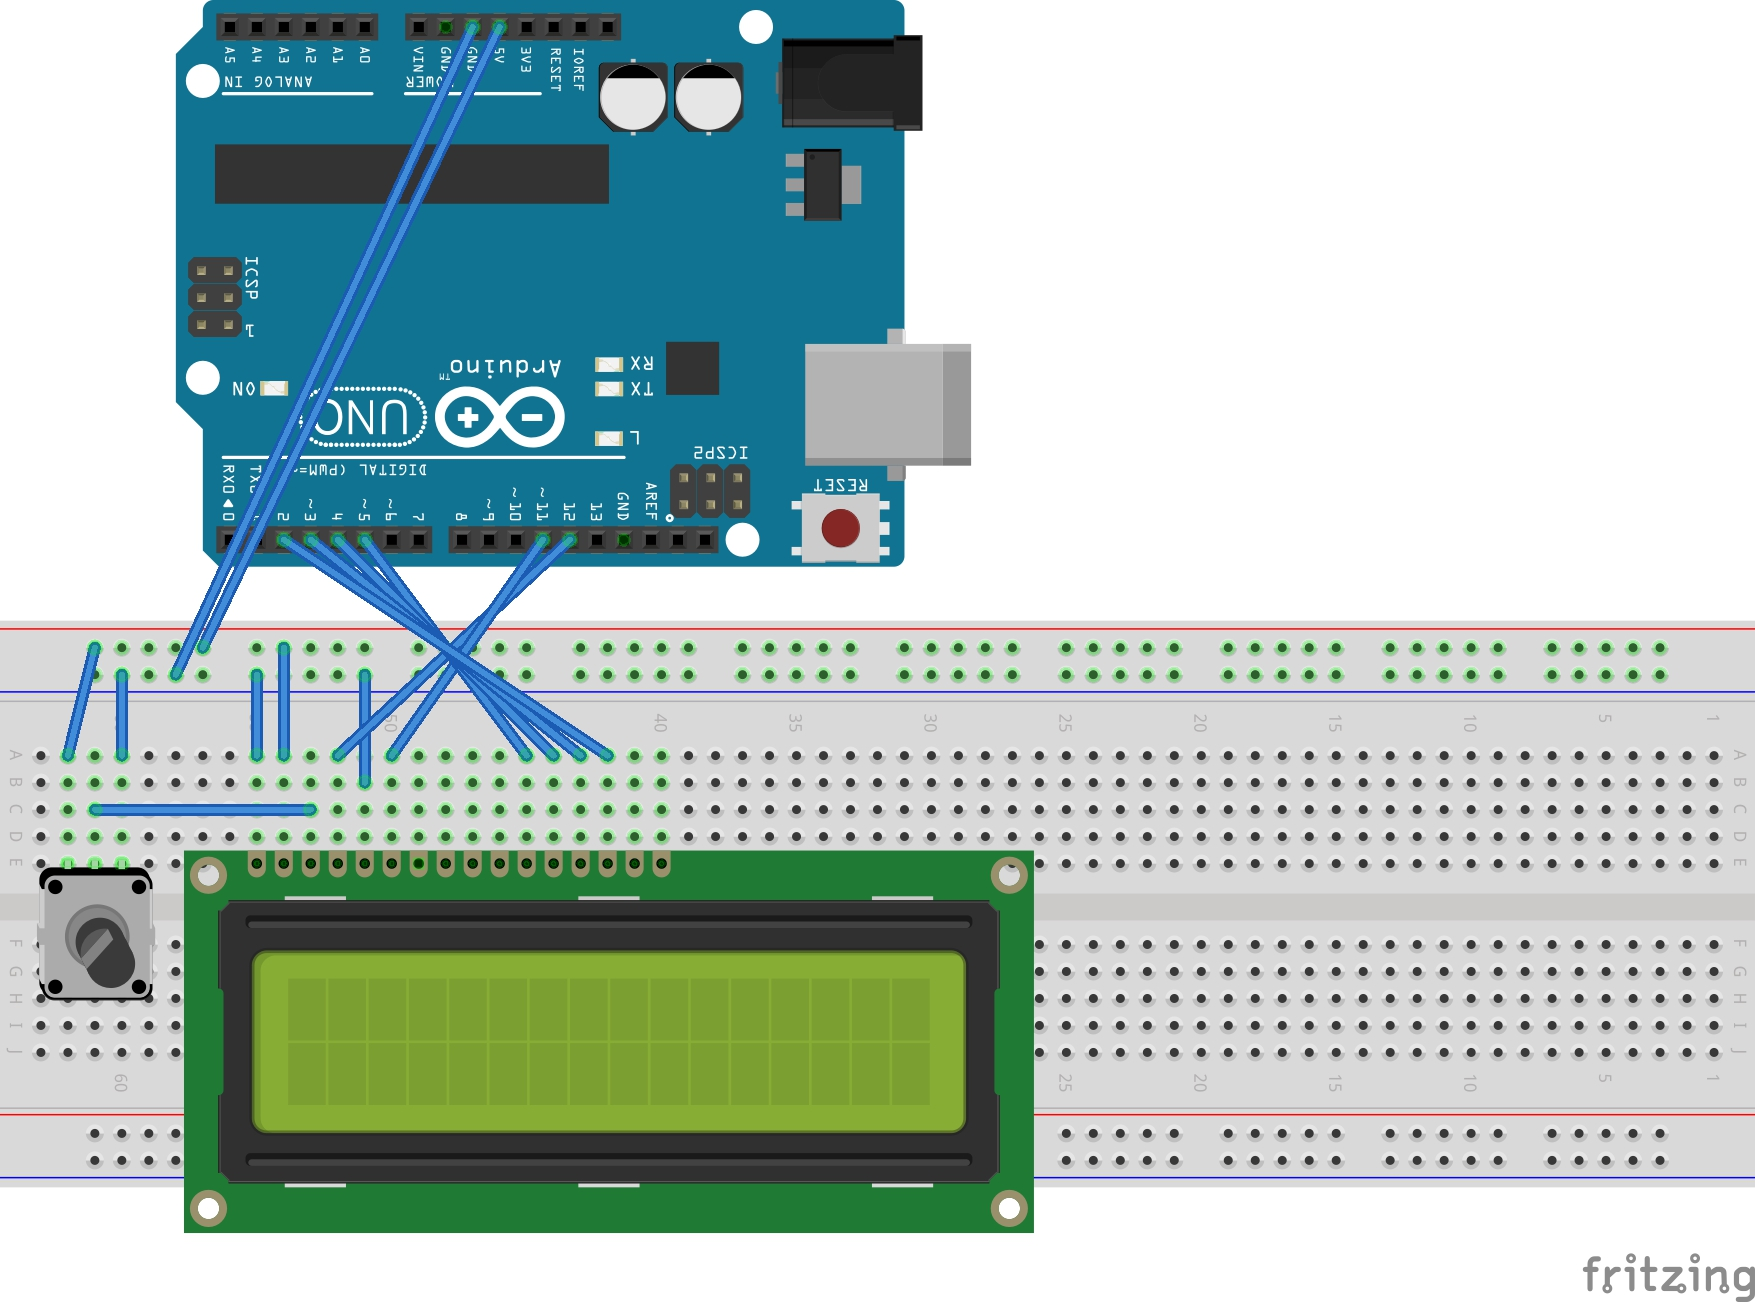
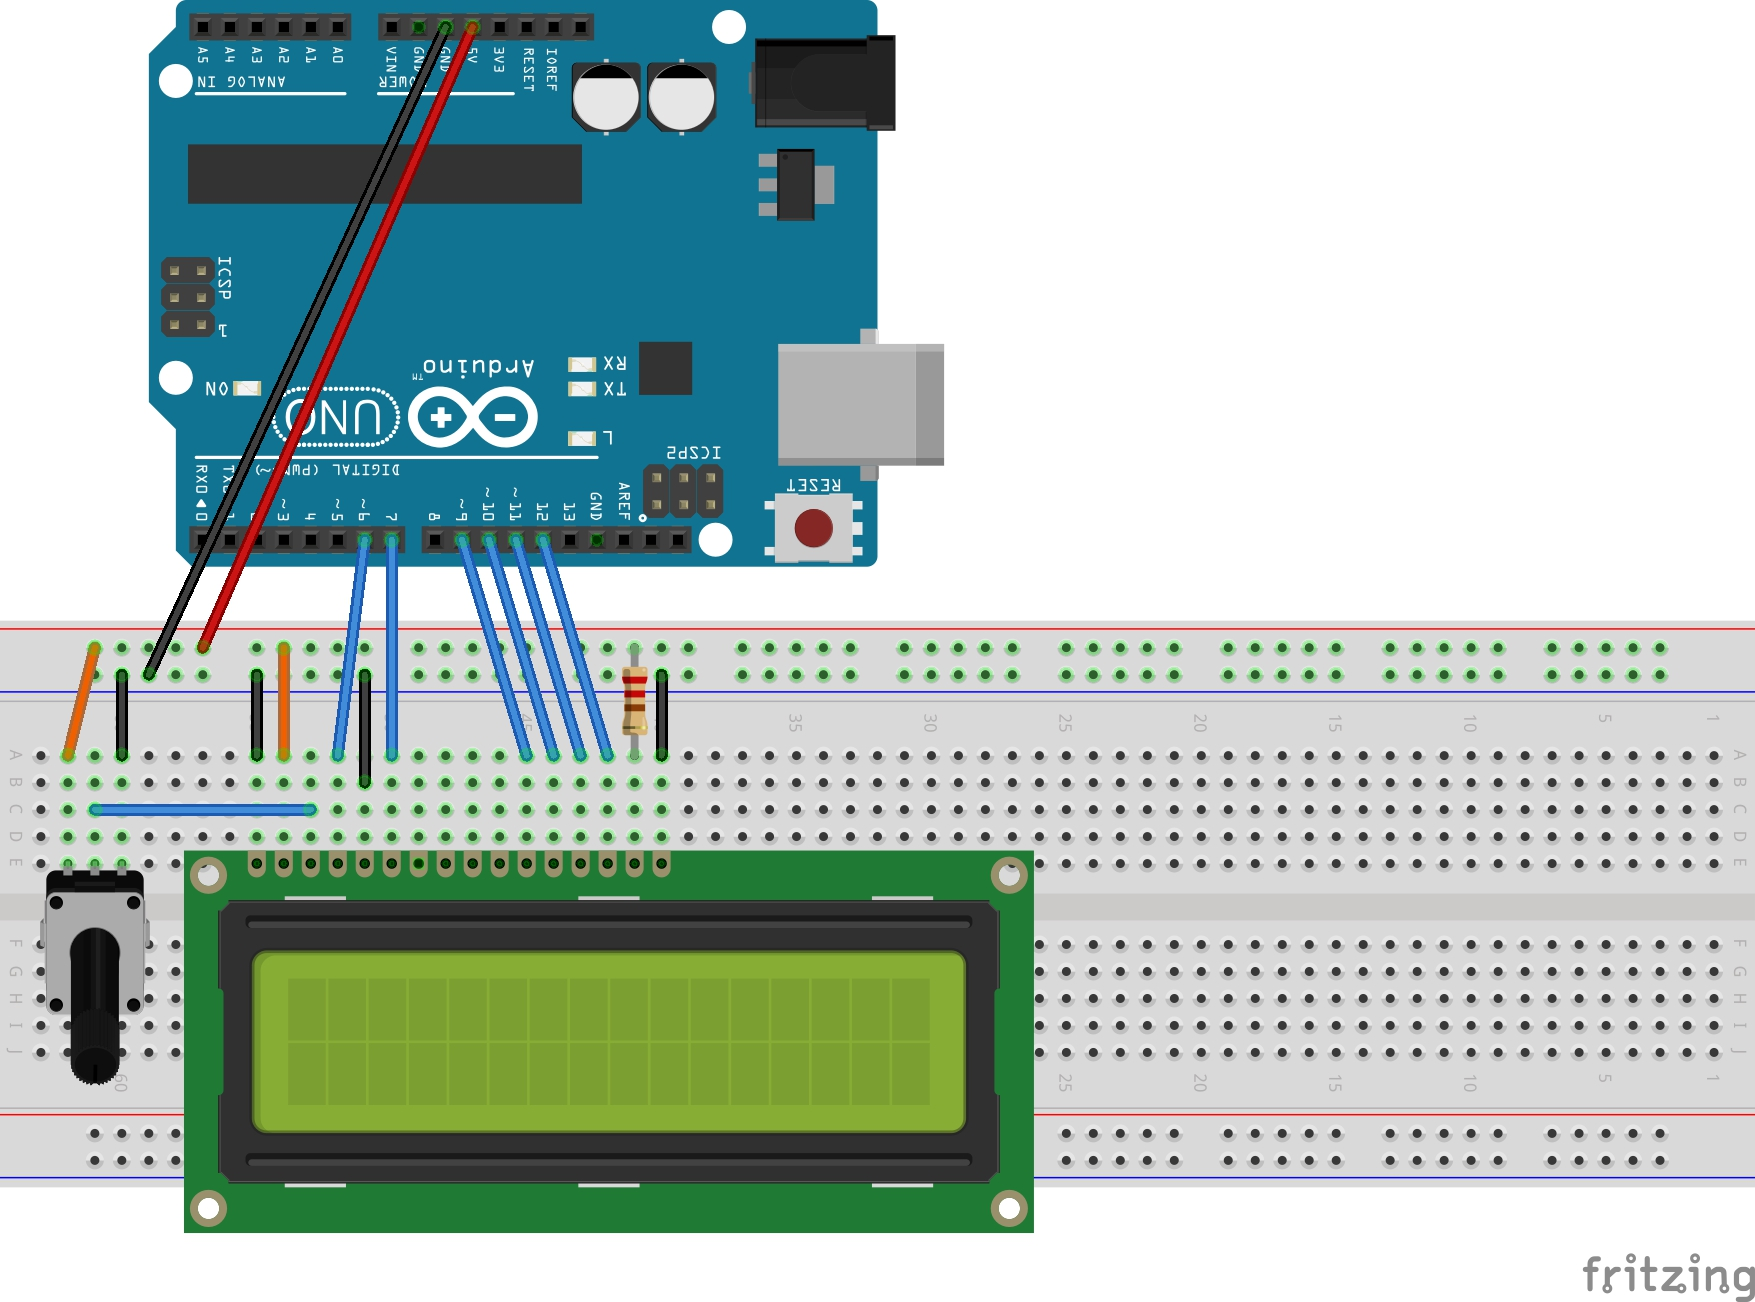
update LCD test

Changed region(s): [[0.0308, 0.0, 0.5538, 0.6144], [0.0, 0.6452, 0.0923, 0.8295]]

diff --git a/playground/BetterWithBacon/README.md b/playground/BetterWithBacon/README.md
@@ -2,16 +2,29 @@
 
 A simple "Hello World" test of a 16x2 LCD module.
 
-![The Build](./assets/BetterWithBacon.jpg?raw=true)
+![The Build](./assets/BetterWithBacon_build.jpg?raw=true)
 
-## Parts
+## Notes
+
+
+Demonstrates the use a 16x2 LCD display.  The LiquidCrystal library works with all LCD displays that are compatible with the Hitachi HD44780 driver. There are many of them out there, and you can usually tell them by the 16-pin interface.
+
+A variable resistor is used to trim contrast, the the LCD backlight is powered from the 5V rail.
+
+## Construction
+
+![The Breadboard](./assets/BetterWithBacon_bb.jpg?raw=true)
+
+![The Schematic](./assets/BetterWithBacon_schematic.jpg?raw=true)
+
+![The Build](./assets/BetterWithBacon_build.jpg?raw=true)
+
+### Parts
 
 * [Arduino Uno R3](http://www.amazon.com/gp/product/B00F6JCV20/ref=as_li_tl?ie=UTF8&camp=1789&creative=390957&creativeASIN=B00F6JCV20&linkCode=as2&tag=itsaprli-20&linkId=O34GVKFAZ6FVDC6W) or similar
 * breadboard
-+ 50kR potetiometer
++ 50k potetiometer
 * 16x2 LCD (I used a [QC1602A](./assets/LCD_QC1602A_datasheet.pdf?raw=true "QC1602A Datasheet"))
-
-![The Breadboard Schematic](./assets/BetterWithBacon_bb.jpg?raw=true)
 
 ## Credits and references
 * Based on the [Arduino LiquidCrystal example](http://www.arduino.cc/en/Tutorial/LiquidCrystal)

diff --git a/README.md b/README.md
@@ -42,6 +42,11 @@ I bought some [WS2811-based LED Strips](http://www.aliexpress.com/item/IP68-12mm
 * [AsyncLedStripEffects](./LEDArrayDemos/AsyncLedStripEffects) - demo effects on the LED strip driven using timer interrupt
 * [FretBoard](./FretBoard) - a multi-project build status indicator, that pulls software build status from the net and animates the status of up to 24 projects with an LED array
 
+### Display Output
+Arduino projects testing various output devices.
+
+* [It's Better With Bacon](./playground/BetterWithBacon) - simple LCD test
+* [Simple 7-segment common cathode LED display](./playground/Simple7SegmentDisplay)
 
 ## Electronics 101 Projects
 
